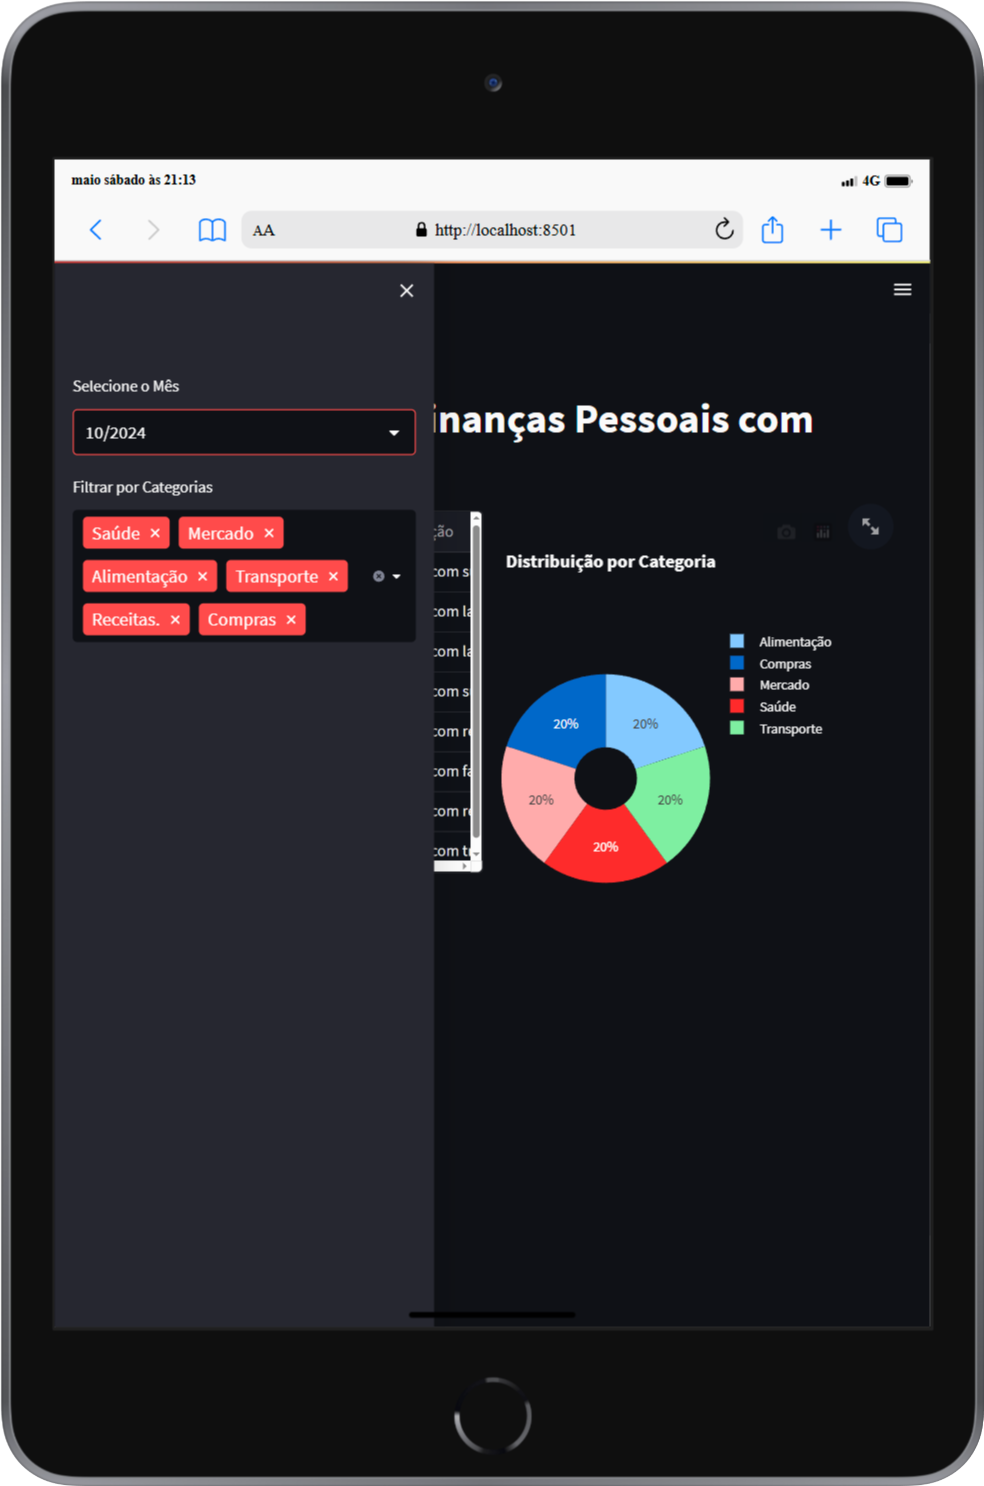
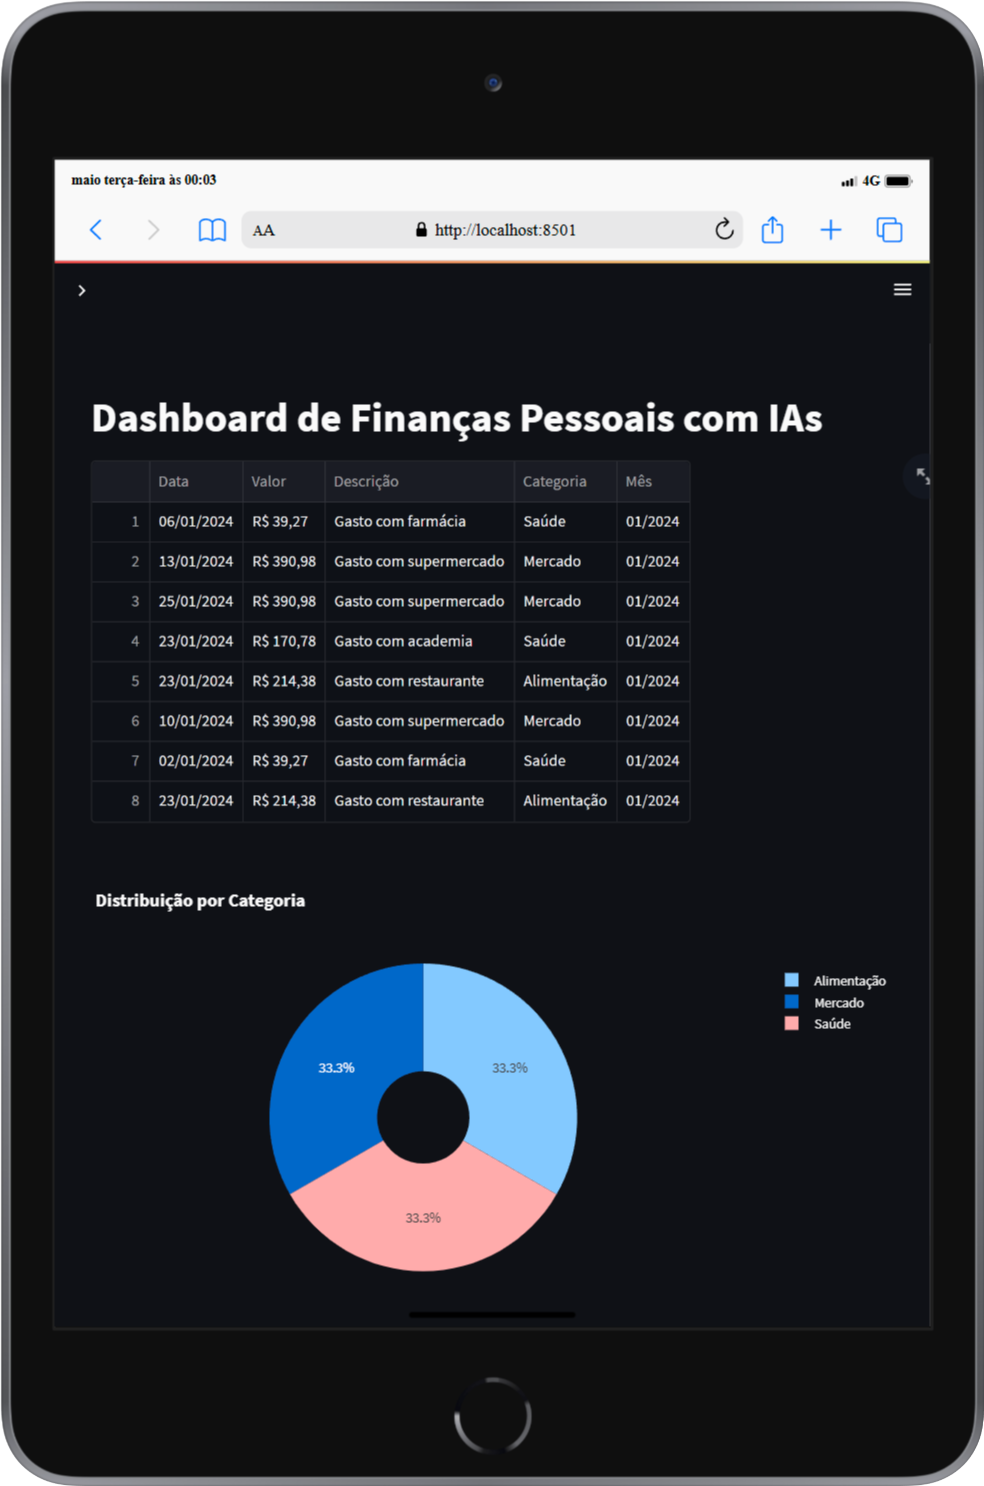
Update

diff --git a/dashboard.py b/dashboard.py
@@ -3,7 +3,7 @@ import pandas as pd
 import plotly.express as px
 
 # Configuração da página
-st.set_page_config(page_title="Dashboard de Finanças Pessoais", layout="wide")
+st.set_page_config(page_title="Dashboard de Finanças Pessoais", layout="centered")
 
 # Leitura e preparação dos dados
 df = pd.read_csv("finances.csv")
@@ -45,7 +45,6 @@ df_display = df_filtered.copy()
 df_display["Data"] = df_display["Data"].dt.strftime("%d/%m/%Y")
 df_display["Valor"] = df_display["Valor"].apply(lambda x: f"R$ {x:,.2f}".replace(",", "v").replace(".", ",").replace("v", "."))
 
-# Layout com colunas
-c1, c2 = st.columns([0.5, 0.5])
-c1.dataframe(df_display)
-c2.plotly_chart(fig, use_container_width=True)
+# Exibição dos gráficos e tabela
+st.dataframe(df_display)
+st.plotly_chart(fig, use_container_width=True)
